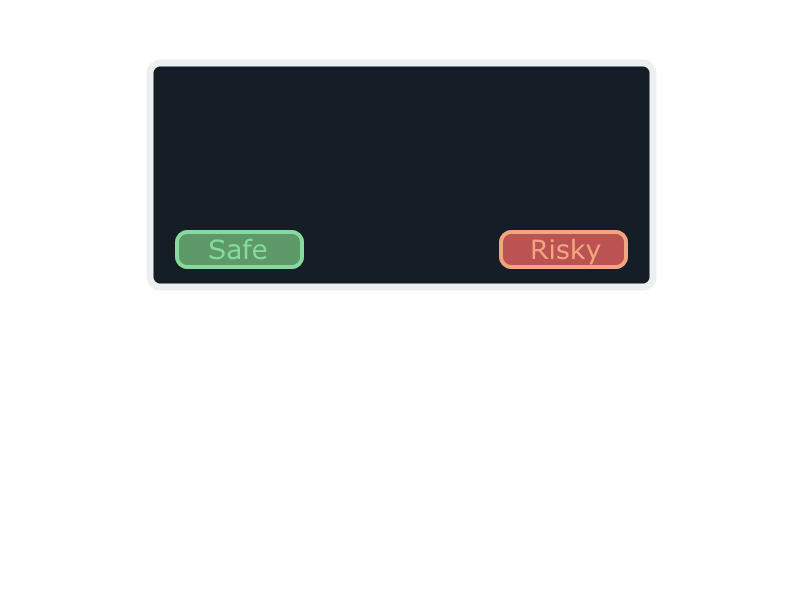
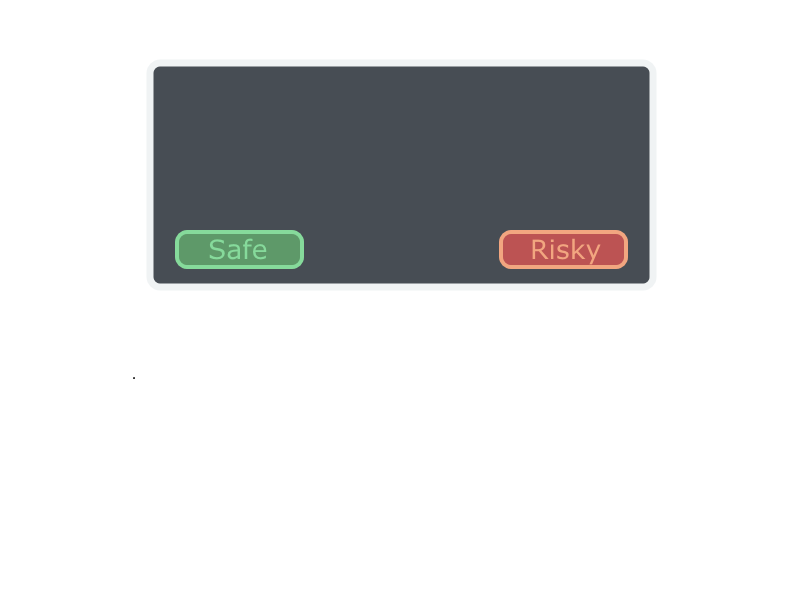
added transparency to notification window and added function to skip join spaces

Changed region(s): [[0.1875, 0.09, 0.8125, 0.48]]

diff --git a/src/main/java/edu/asu/cst316/GameMain.java b/src/main/java/edu/asu/cst316/GameMain.java
@@ -131,7 +131,7 @@ public class GameMain extends BasicGameState{
 		xPosition < 490 &&
 		yPosition < 180 &&
 		yPosition > 20){
-			gameboard.movePlayer(1);
+			gameboard.movePlayer(10);
 			updateBoardView(gameboard.getCurrentSpace().getPosX(), gameboard.getCurrentSpace().getPosY());
 			System.out.println(gameboard.getCurrentSpace().getType());
 		}
@@ -238,7 +238,7 @@ public class GameMain extends BasicGameState{
 				cardColor = greenCard.getScaledCopy((float) .8);}
 			else{cardType = "fail";}
 			*/
-			cardText = cardgenerator.getFinalCardText();
+			//cardText = cardgenerator.getFinalCardText();
 		}
 		
 		//When the player lands on a fork space they will see a window giving 
@@ -341,10 +341,16 @@ public class GameMain extends BasicGameState{
 		g.drawImage(player, 336, 136);
 		if(showNotification){
 			g.drawImage(notification, 0, 0);
+			Font font = new Font("Verdana", Font.PLAIN, 28);
+			TrueTypeFont trueTypeFont = new TrueTypeFont(font, true);
+			TextField cardTextBox = new TextField(gc, trueTypeFont, 190, 100, 420, 120);
+			cardTextBox.setText("You have a decision to make!");
+			cardTextBox.setBorderColor(new Color(0, 0, 0, 0));
+			cardTextBox.setBackgroundColor(new Color(0, 0, 0, 0));
+			cardTextBox.render(gc, g);
 		}
 		if(showEventWindow){
 			g.drawImage(eventWindow, 0, 0);
-			g.drawString(cardText, 250, 40);
 			Font font = new Font("Verdana", Font.PLAIN, 20);
 			TrueTypeFont trueTypeFont = new TrueTypeFont(font, true);
 			TextField cardTextBox = new TextField(gc, trueTypeFont, 190, 100, 420, 120);

diff --git a/src/main/java/edu/asu/cst316/gameboard/GameBoard.java b/src/main/java/edu/asu/cst316/gameboard/GameBoard.java
@@ -98,7 +98,11 @@ public class GameBoard {
 			playerSpace.getType().equals("payday") &&
 			playerSpace.getType().equals("end")){
 				i = moveAmount;
-			}
+			}	
+		}
+		
+		if(playerSpace.getType().equals("join")){
+			playerSpace = playerSpace.getNextSpace();
 		}
 	}
 	
